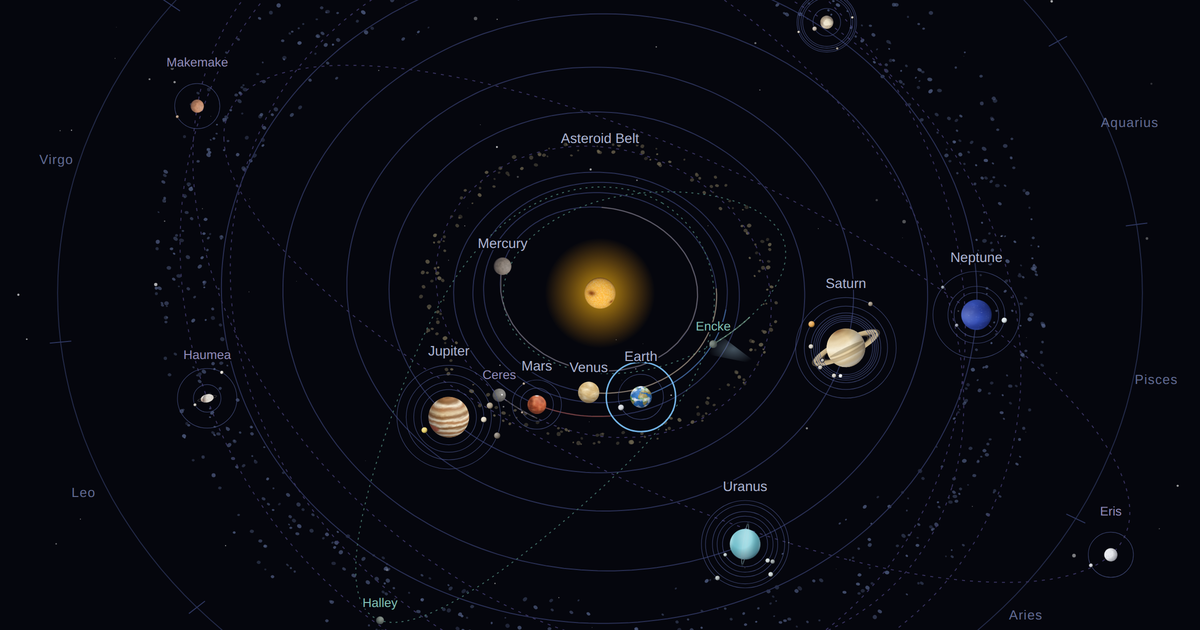
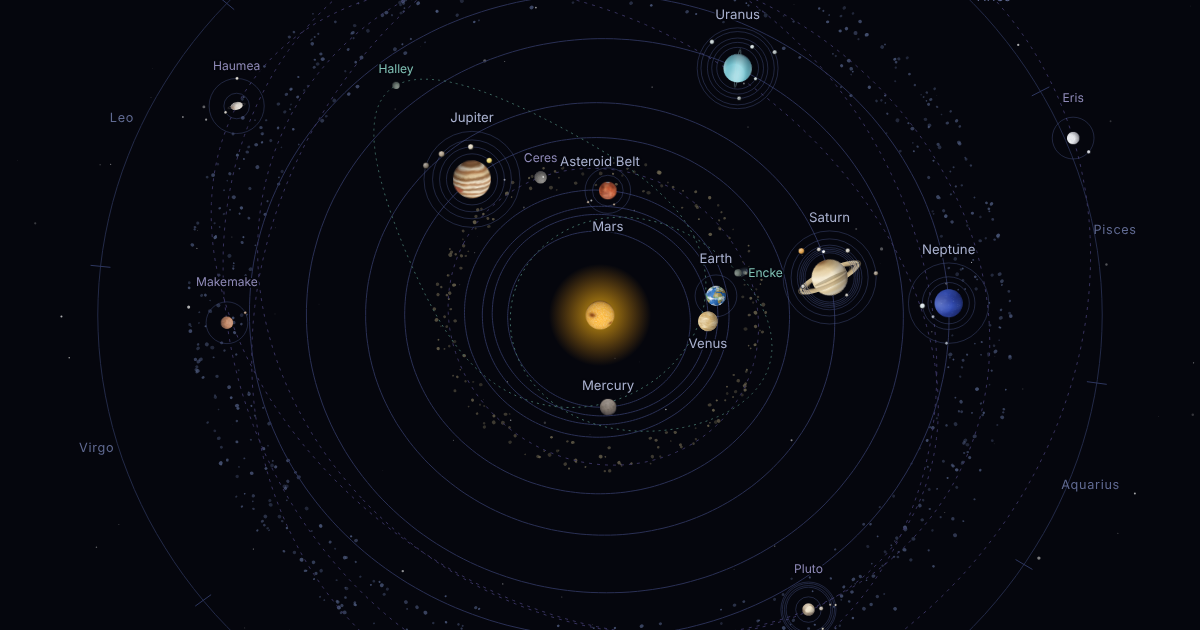
View the solar system from the north: planets travel anticlockwise

diff --git a/index.html b/index.html
@@ -581,7 +581,10 @@ function proj(x,y,z,r){
   const k=r>1e-9?Rf(r)/r:0;
   const X=x*k, Y=y*k, Z=z*k;
   const ct=Math.cos(tiltDeg*D2R), st=Math.sin(tiltDeg*D2R);
-  return [CX+X, CY+Y*ct-Z*st, Y*st+Z*ct];   // [sx, sy, depth: + = further]
+  /* seen from the north side of the ecliptic, tilted towards the viewer:
+     +Y runs up the screen, so the planets travel anticlockwise as they do
+     from the north, and +Z (north) still lifts towards the top */
+  return [CX+X, CY-Y*ct-Z*st, Y*st-Z*ct];   // [sx, sy, depth: + = further]
 }
 
 /* ================= procedural surfaces ============================== */
@@ -922,7 +925,7 @@ function beltBasis(br){
   const co=Math.cos(br.node),so=Math.sin(br.node),ci=Math.cos(br.inc),si=Math.sin(br.inc);
   const c1=[co,so,0], c2=[-so*ci,co*ci,si];
   const k=Rf(br.au), ct=Math.cos(tiltDeg*D2R), st=Math.sin(tiltDeg*D2R);  // unit basis
-  const P=v=>[v[0]*k, v[1]*k*ct-v[2]*k*st];
+  const P=v=>[v[0]*k, -v[1]*k*ct-v[2]*k*st];
   br.A=P(c1); br.B=P(c2);
   const det=br.A[0]*br.B[1]-br.A[1]*br.B[0];
   br.inv=Math.abs(det)<1e-9?null:[br.B[1]/det,-br.B[0]/det,-br.A[1]/det,br.A[0]/det];
@@ -1468,7 +1471,7 @@ const zodiac=mk("g",{}); svg.appendChild(zodiac);
 const zodLabels=[];
 function flat(px,py,pz){
   const ct=Math.cos(tiltDeg*D2R), st=Math.sin(tiltDeg*D2R);
-  return [CX+px, CY+py*ct-pz*st];
+  return [CX+px, CY-py*ct-pz*st];
 }
 function buildZodiac(){
   while(zodiac.firstChild) zodiac.removeChild(zodiac.firstChild);
@@ -1616,6 +1619,12 @@ let labelsOn=true;
 function placeLabels(){
   if(!labelsOn) return;
   const k=textK(), h=11.5*k, placed=[];
+  /* the belt names are fixed, so planet labels have to keep clear of them */
+  if(beltLabels.style.display!=="none") BELTS.forEach(B=>{
+    if(!B.labW){ const L=B.lab.getComputedTextLength(); if(L>0) B.labW=L; }
+    const w=(B.labW||B.n.length*6.4)*k;
+    if(B.lx!==undefined) placed.push([B.lx-w/2,B.ly-3*k-h*0.8,w,h]);
+  });
   const live=nodes.filter(nd=>nd.pos&&nd.g.style.display!=="none");
   const hitsBody=(bx,self)=>live.some(o=>{
     if(o===self) return false;
@@ -2438,7 +2447,7 @@ function relayout(){
   });
   beltRings.forEach(beltBasis);
   BELTS.forEach(B=>{
-    const p=proj(0,-(B.i+B.o)/2,0,(B.i+B.o)/2);
+    const p=proj(0,(B.i+B.o)/2,0,(B.i+B.o)/2);
     B.lx=p[0]; B.ly=p[1];
     B.lab.setAttribute("x",0); B.lab.setAttribute("y",0);
   });
@@ -2763,12 +2772,12 @@ function frame(now){
   moonSats.forEach(m=>{
     const th=m.ph+(m.retro?-1:1)*2*Math.PI*T/m.P;
     m.g.setAttribute("transform","translate("+(m.r*Math.cos(th)).toFixed(2)+
-      ","+(m.r*Math.sin(th)).toFixed(2)+")");});
+      ","+(-m.r*Math.sin(th)).toFixed(2)+")");});   /* minus: anticlockwise on screen */
   if(frameN%2===0) beltRings.forEach(br=>beltSpin(br,T));
   moonAnim.forEach(m=>{
     const th=m.ph+(m.retro?-1:1)*2*Math.PI*(wall/3)*(m.k/m.P);
     m.g.setAttribute("transform","translate("+(140+m.r*Math.cos(th)).toFixed(2)+
-      ","+(140+m.r*Math.sin(th)).toFixed(2)+")");});
+      ","+(140-m.r*Math.sin(th)).toFixed(2)+")");});
 
   if(portraitBody&&frameN%2===0){
     const rt=portraitBody.rot||24;
@@ -2845,7 +2854,8 @@ document.getElementById("foot").innerHTML=[
  "Ceres, Haumea, Makemake, Eris and the two comets use fixed osculating elements with a mean motion, which is "+
  "good to a fraction of a degree over this era. Perturbations between planets are ignored "+
  "entirely, so run the clock far enough and the outer planets will drift from reality.",
- "<b>Geometry.</b> Inclinations and nodes are real, so the tilt control shows the true three-dimensional "+
+ "<b>Geometry.</b> The view is from the north side of the ecliptic, so the planets travel "+
+ "anticlockwise. Inclinations and nodes are real, so the tilt control shows the true three-dimensional "+
  "arrangement. Only in <i>true</i> scale is each drawn curve a geometrically exact ellipse with the Sun at a "+
  "focus; the compressed and square-root scales bend the radius to fit everything on one page, which flattens the "+
  "ellipses but keeps the ordering and the crossings honest. Planet sizes are not to scale in any mode; the "+

diff --git a/service-worker.js b/service-worker.js
@@ -10,7 +10,7 @@
  * offline), and everything else — icons, images — is cache-first, since
  * those are versioned by the cache name and rarely change.
  */
-const CACHE = 'orrery-v4';
+const CACHE = 'orrery-v5';
 const ASSETS = [
   './',
   './index.html',
